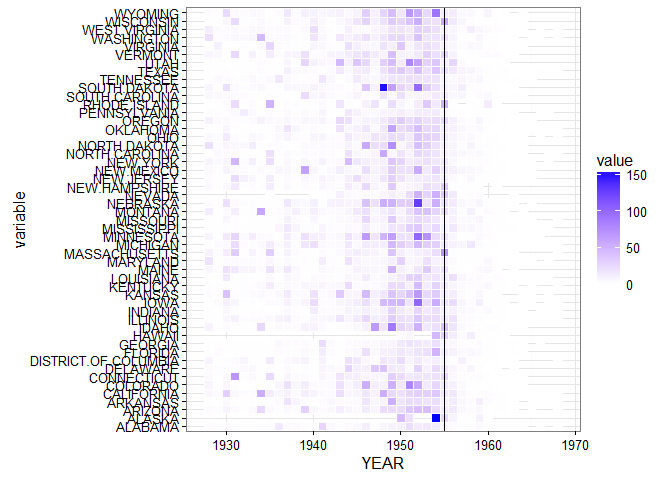
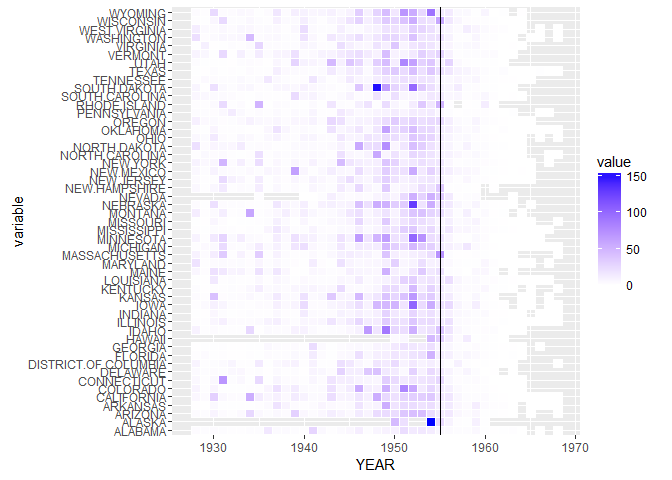
0516

diff --git a/hw6.md b/hw6.md
@@ -125,8 +125,11 @@ library(ggplot2)
 
 ``` r
 ggplot(polio.sumYear, aes(YEAR, variable)) + #aes(x,y)
-    geom_tile(aes(fill = value),colour = "white")+theme_bw()+ geom_vline(xintercept = 1955)+ #geom_tile: 區塊著色
+    geom_tile(aes(fill = value),colour = "white")+
+  geom_vline(xintercept = 1955)+ #geom_tile: 區塊著色
     scale_fill_gradient(low = "white",high = "blue") #數值低：白色
 ```
 
-![](hw6_files/figure-markdown_github/unnamed-chunk-5-1.png)<!-- --> 圖形說明: 上圖為美國在1928-1969年間，小兒麻痺在各州的發生率變化。可以發現發生率每年都有慢慢成長的趨勢，但是自從1955年有了小兒麻痺疫苗之後，發生率瞬間驟降，甚至有些州發生率等於0，可見小兒麻痺疫苗有帶來很好的效果。
+![](hw6_files/figure-markdown_github/unnamed-chunk-5-1.png)<!-- -->
+
+圖形說明: 上圖為美國在1928-1969年間，小兒麻痺在各州的發生率變化。可以發現發生率每年都有慢慢成長的趨勢，但是自從1955年有了小兒麻痺疫苗之後，發生率瞬間驟降，甚至有些州發生率等於0，可見小兒麻痺疫苗有帶來很好的效果。
